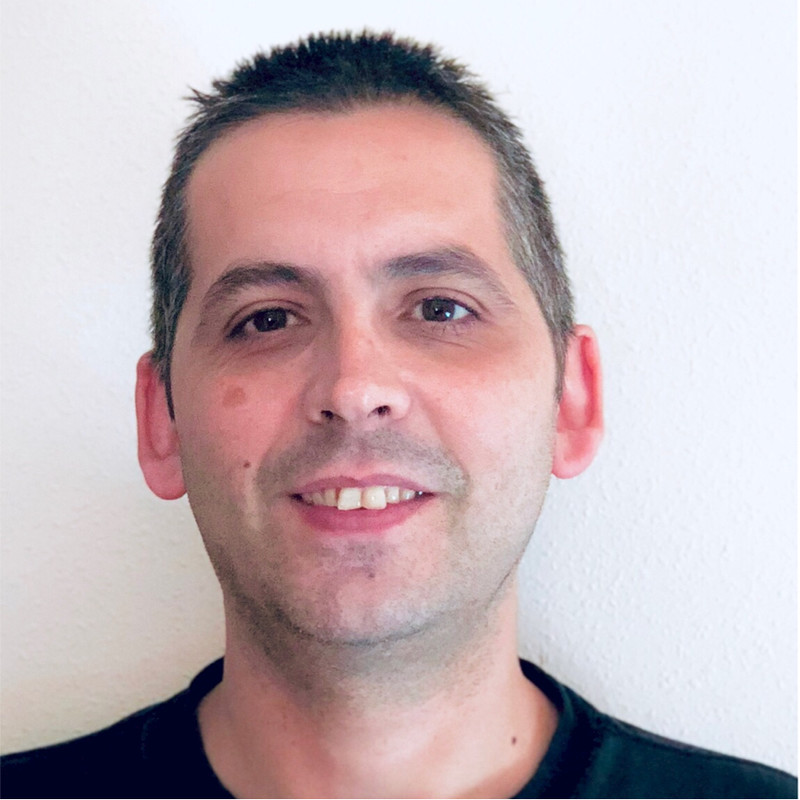
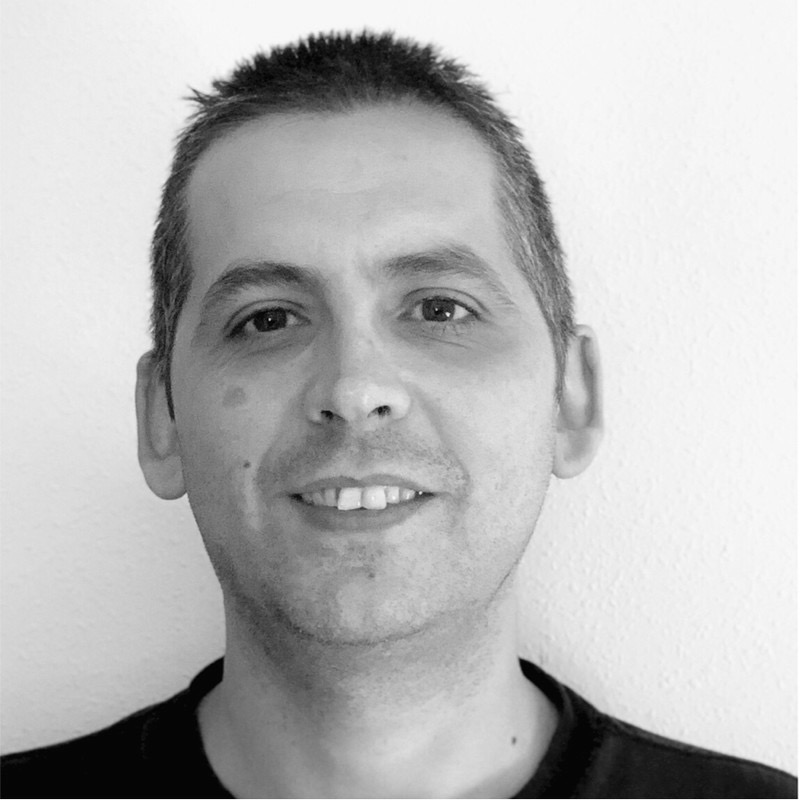
Traducción

diff --git a/src/data/site-config.ts b/src/data/site-config.ts
@@ -44,7 +44,7 @@ const siteConfig: SiteConfig = {
     subtitle: 'Aprendiendo a programar',
     description: 'Web developer and designer',
     image: {
-        src: '/yo.jpg',
+        src: '/black.jpg',
         alt: 'Marcos Carmona García'
 
     },
@@ -68,11 +68,11 @@ const siteConfig: SiteConfig = {
     ],
     footerNavLinks: [
         {
-            text: 'About',
+            text: 'Sobre mí',
             href: '/about'
         },
         {
-            text: 'Contact',
+            text: 'Contacto',
             href: '/contact'
         },
         {
@@ -83,16 +83,12 @@ const siteConfig: SiteConfig = {
     ],
     socialLinks: [
         {
-            text: 'Dribbble',
-            href: 'https://dribbble.com/'
+            text: 'GitHub',
+            href: 'https://github.com/MarcosCarmonaGarcia'
         },
         {
-            text: 'Instagram',
-            href: 'https://instagram.com/'
-        },
-        {
-            text: 'X/Twitter',
-            href: 'https://twitter.com/'
+            text: 'X',
+            href: 'https://X.com/'
         }
     ],
     hero: {

diff --git a/src/content/pages/about.md b/src/content/pages/about.md
@@ -1,43 +1,39 @@
 ---
-title: About
+title: Sobre mí
 seo:
   title: About Me
-  description: Learn more about the person behind the website and embark on a journey of inspiration and shared experiences.
+  description: Learn more about Marcos Carmona García, an apprentice programmer passionate about learning, technology, and ethical hacking.
   image:
-    src: '/about.jpeg'
-    alt: A person sitting at a desk in front of a computer
+    src: '/yo.jpg'
+    alt: A curious learner exploring programming and cybersecurity
 ---
 
 ![Alt text for image](/about.jpeg)
 
-**Note!:** This about page is entirely fictional and created for the purpose of showcasing [Dante Astro.js theme functionality](https://justgoodui.com/astro-themes/dante/).
+## Marcos Carmona García – Aprendiz de Programación y Entusiasta del Pentesting
 
-## Ethan Donovan - Web Developer based in Estonia
+**¡Hola!** Soy **Marcos Carmona García**, un programador aficionado en proceso de aprendizaje, con un creciente interés por el mundo del **pentesting** y el **hacking ético**. Mi objetivo es adquirir los conocimientos necesarios para desenvolverme en el ámbito de la ciberseguridad, aprendiendo paso a paso y construyendo una base sólida en programación y técnicas de análisis.
 
-**Greetings!** I'm Ethan Donovan, a passionate web developer residing in the picturesque landscapes of [Estonia](https://en.wikipedia.org/wiki/Estonia). With a keen eye for design and a love for crafting seamless digital experiences, I bring a unique blend of creativity and technical expertise to the world of web development.
+## Habilidades en Desarrollo
 
-## Skills and Expertise
+Actualmente estoy reforzando mis bases en **Python** y **Bash**, con la meta de aplicarlos en el ámbito del pentesting. También me interesa explorar entornos como **Linux**, **Neovim** y diversas herramientas utilizadas en seguridad informática.  
+Mi aprendizaje se centra en la práctica constante y en la creación de proyectos que me ayuden a comprender de manera real cómo funciona la tecnología.
 
-I specialize in front-end and back-end development, utilizing the latest technologies to build responsive and user-friendly websites. My proficiency includes **HTML**, **CSS**, **JavaScript**, and frameworks such as **Astro.js** for dynamic and interactive user interfaces. On the server side, I'm well-versed in Node.js and have experience with database management systems like MongoDB.
+## Motivación y Enfoque
 
-## Innovation and Problem-Solving
+Me apasiona la idea de resolver problemas, investigar vulnerabilidades y comprender cómo interactúan los sistemas. Considero que el **hacking ético** es una manera de aportar seguridad al mundo digital mientras sigo creciendo como profesional en formación.
 
-I thrive on solving complex problems and transforming ideas into functional, elegant websites. Whether it's optimizing performance, implementing new features, or troubleshooting issues, I approach each challenge with enthusiasm and a commitment to delivering high-quality solutions.
+## Filosofía de Aprendizaje
 
-## Global Perspective, Local Impact
+La tecnología avanza a un ritmo acelerado, por lo que mantengo una mentalidad de **aprendizaje continuo**. Cada día es una oportunidad para mejorar, experimentar y descubrir nuevas herramientas que potencien mis habilidades.
 
-Living in Estonia has not only influenced my appreciation for nature and culture but has also shaped my approach to web development. I understand the importance of creating digital solutions that resonate with local audiences while maintaining a global perspective.
+## Colaboración y Comunidad
 
-## Continuous Learning
+Creo en el poder de compartir conocimientos. Mi meta es crecer junto a otros entusiastas de la programación y la ciberseguridad, aprendiendo de la comunidad y contribuyendo con mi propio camino como aprendiz.
 
-The dynamic nature of the tech industry inspires me to stay up-to-date with the latest trends and advancements. I'm always eager to expand my skill set and embrace emerging technologies that enhance the functionality and aesthetics of the websites I create.
+## Conecta Conmigo
 
-## Collaboration and Communication
+Si compartes el interés por la programación, la seguridad informática o el aprendizaje autodidacta, me encantaría conectar contigo. Estoy abierto a colaborar, compartir experiencias y seguir aprendiendo en este viaje tecnológico.
 
-I believe in the power of collaboration and effective communication. Whether working with clients, designers, or fellow developers, I value clear communication to ensure the success of every project.
+_La curiosidad es el primer paso hacia el conocimiento._
 
-## Get in Touch
-
-Are you looking to elevate your online presence or bring your digital ideas to life? I'd love to hear from you! Feel free to reach out for collaboration, consultation, or just a friendly chat about all things web development.
-
-_Let's build something amazing together!_
